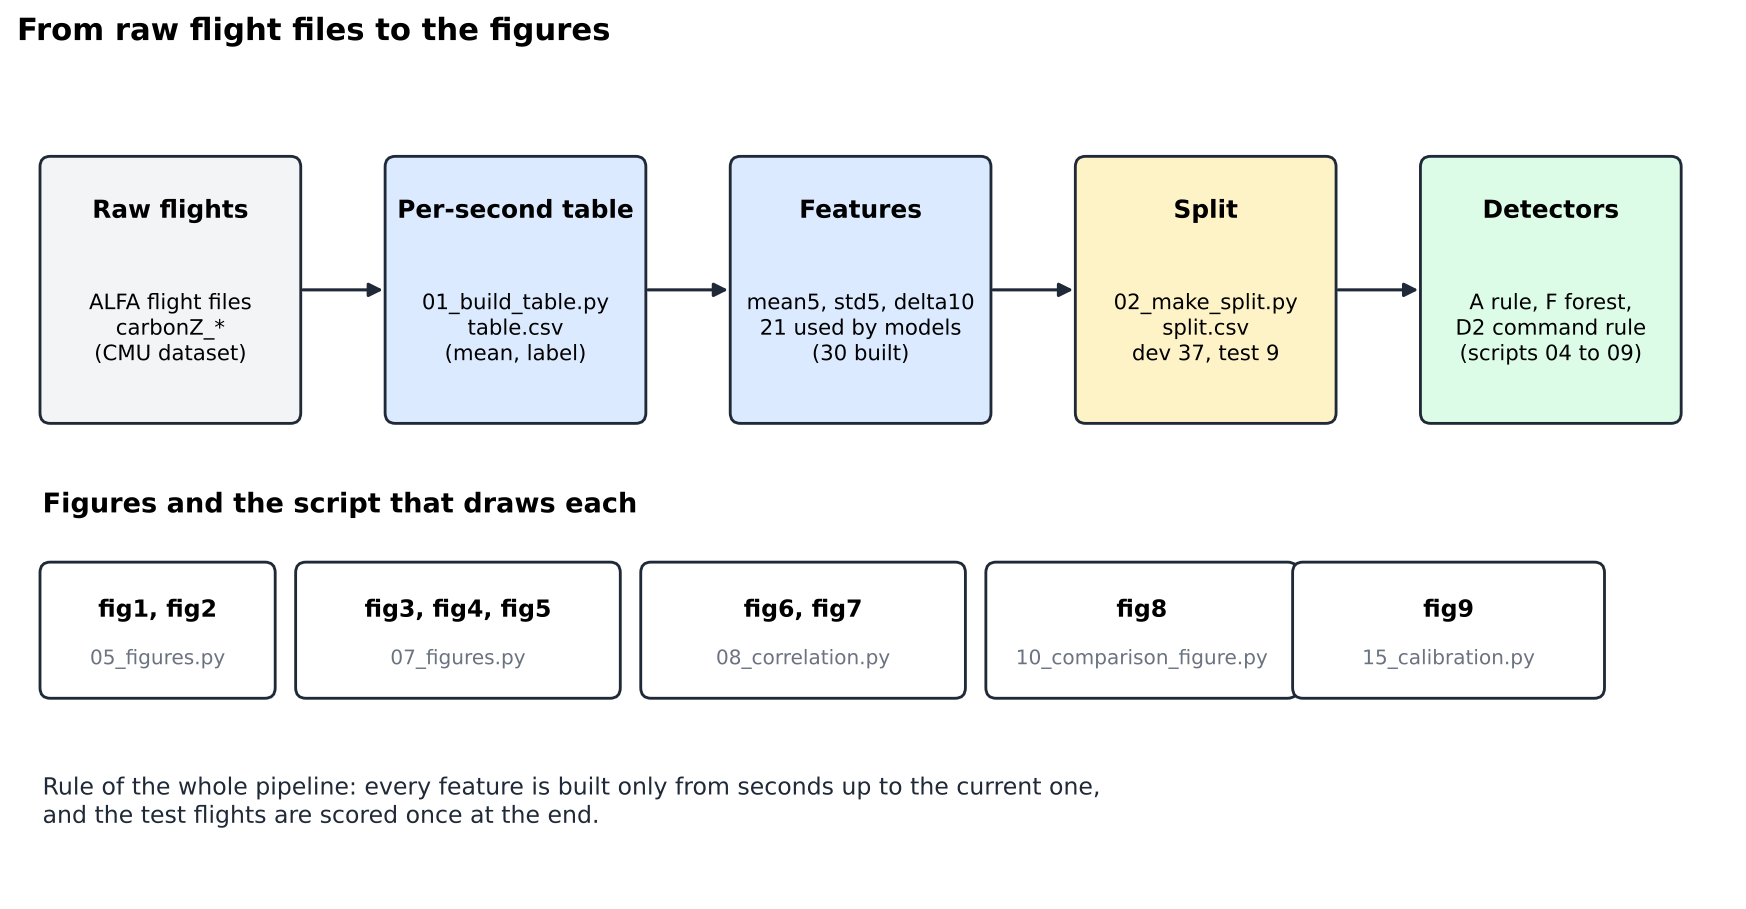
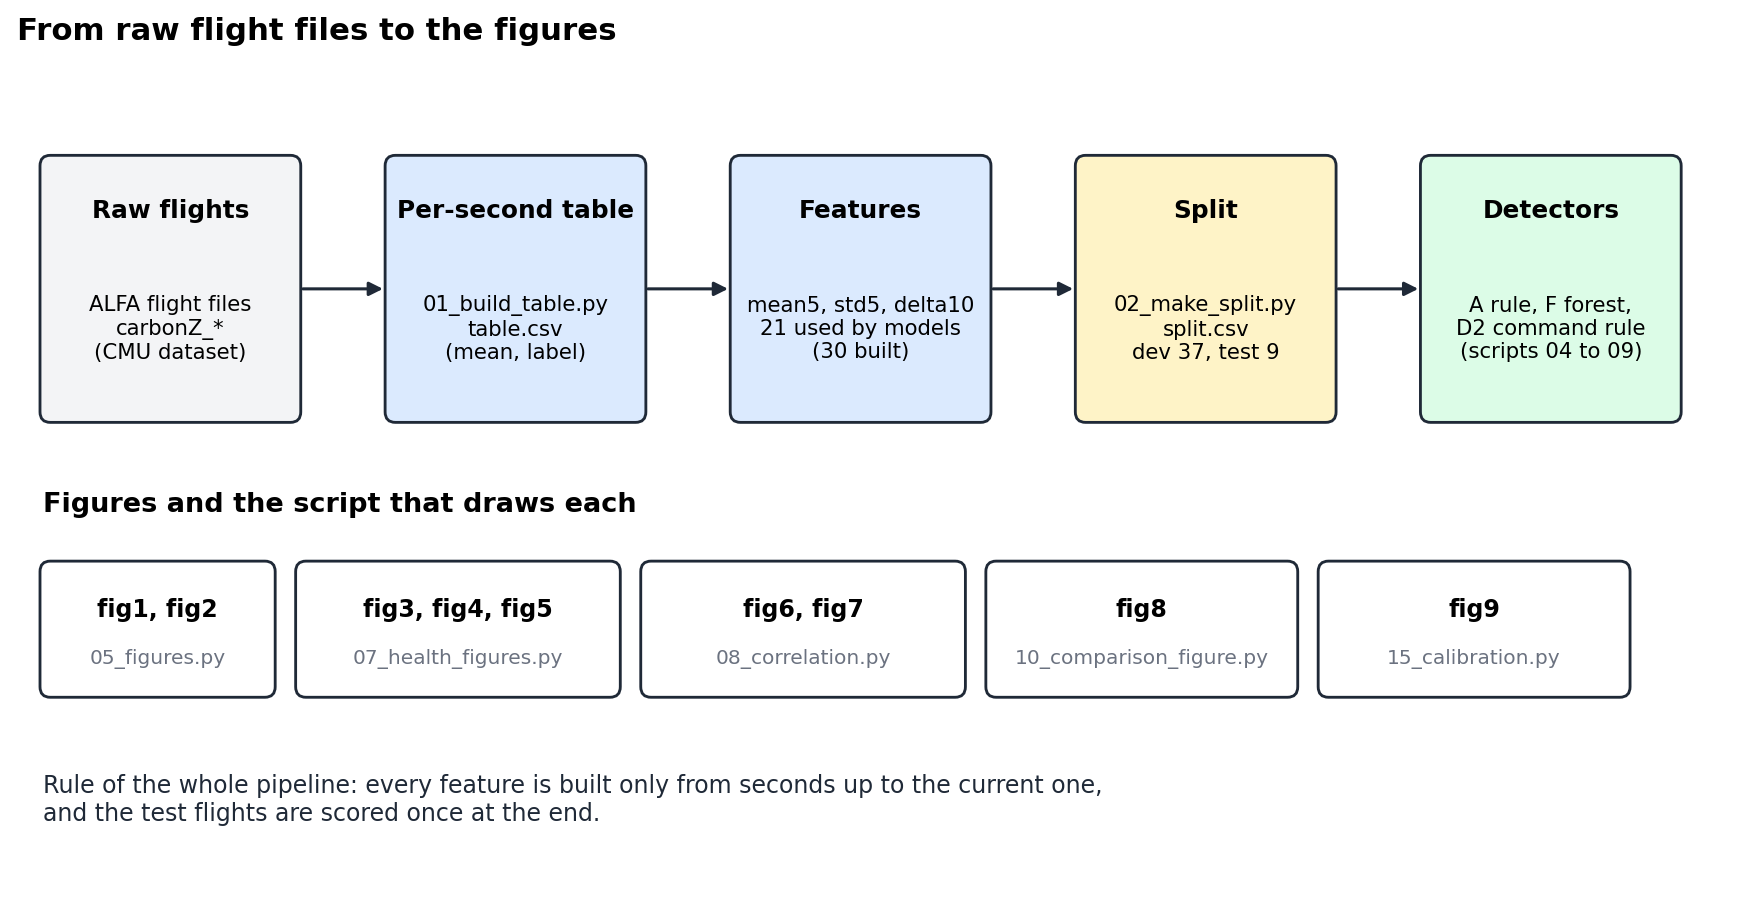
Add detector flow diagram; fix script name and spacing in diagram 2

diff --git a/src/make_diagrams.py b/src/make_diagrams.py
@@ -1,7 +1,7 @@
 """Draws the explanation diagrams (no data needed, facts come from the scripts).
 
 Run:  python src/make_diagrams.py
-Writes figures/diagram1_time_window.png ... diagram4_script_map.png
+Writes figures/diagram1_time_window.png ... diagram5_detectors.png
 """
 from pathlib import Path
 
@@ -110,10 +110,10 @@ def pipeline():
     ax.text(0.2, 2.9, "Figures and the script that draws each", fontsize=11.5, fontweight="bold")
     outs = [
         (0.2, "fig1, fig2", "05_figures.py"),
-        (2.2, "fig3, fig4, fig5", "07_figures.py"),
+        (2.2, "fig3, fig4, fig5", "07_health_figures.py"),
         (4.9, "fig6, fig7", "08_correlation.py"),
         (7.6, "fig8", "10_comparison_figure.py"),
-        (10.0, "fig9", "15_calibration.py"),
+        (10.2, "fig9", "15_calibration.py"),
     ]
     widths = [1.8, 2.5, 2.5, 2.4, 2.4]
     for (x, name, src), w in zip(outs, widths):
@@ -268,9 +268,40 @@ def script_map():
     plt.close(fig)
 
 
+# ---------------------------------------------------------------- picture 5
+def detectors():
+    fig, ax = plt.subplots(figsize=(13, 6.2))
+    ax.set_xlim(0, 13.4)
+    ax.set_ylim(0, 6.4)
+    ax.axis("off")
+    cols = [
+        (0.3, "A  sensor rule", "#dbeafe", "21 sensor features",
+         "one feature, one threshold\nfitted on dev rows:\nvel_lin_z__mean5 <= -0.833", "3 seconds in a row", "test F1 0.46"),
+        (4.75, "F  sensor forest", "#dbeafe", "21 sensor features",
+         "random forest, 300 trees,\nclass-balanced\nfault if p >= 0.5", "3 seconds in a row", "test F1 0.50"),
+        (9.2, "D2  command side", "#fef3c7", "rc-out channels 1 to 5",
+         "channel 1, 3, 4 or 5 frozen 3 s\nOR channel 2 (throttle)\nbelow a level fitted on dev", "throttle part: 3 in a row", "test F1 0.87, a ceiling"),
+    ]
+    for x, title, fc, reads, rule, persist, score in cols:
+        ax.text(x + 1.95, 6.05, title, ha="center", va="center", fontsize=12, fontweight="bold")
+        box(ax, x, 4.75, 3.9, 0.8, "reads: " + reads, fc=fc, fs=9.5)
+        box(ax, x, 2.95, 3.9, 1.3, rule, fc="#ffffff", fs=9.5)
+        box(ax, x, 1.75, 3.9, 0.7, persist, fc="#ffffff", fs=9.5)
+        box(ax, x, 0.75, 3.9, 0.6, score, fc="#f3f4f6", fs=9.5, bold=True)
+        for y0, y1 in ((4.75, 4.25), (2.95, 2.45), (1.75, 1.35)):
+            arrow(ax, (x + 1.95, y0), (x + 1.95, y1))
+    ax.text(0.3, 0.3, "D2 reads the recorded servo commands, which already contain the injected fault, "
+            "so its score shows how easy the task gets, not a detector for a real aircraft.",
+            fontsize=9.5, color=INK)
+    ax.set_title("The three detectors and what each one reads", fontsize=13, fontweight="bold", loc="left")
+    fig.savefig(OUT / "diagram5_detectors.png", dpi=170, bbox_inches="tight", facecolor="white")
+    plt.close(fig)
+
+
 if __name__ == "__main__":
     time_window()
     pipeline()
     split()
     script_map()
-    print("saved 4 diagrams in", OUT)
+    detectors()
+    print("saved 5 diagrams in", OUT)

diff --git a/docs/ROADMAP.md b/docs/ROADMAP.md
@@ -16,7 +16,7 @@ No company data goes into this project.
 1. Done: pictures 1 to 4 and the fig GIFs are pushed.
 2. Done: fig7 cell as a scatter, `figures/fig7_cell_scatter.png` from `src/make_fig7_scatter.py`.
 3. Done: signals by fault type around the fault, `figures/fig_signals_by_fault_type.png` from `src/make_fault_signals.py` (uses the mean5 features, not raw readings).
-4. Picture 6: detector flow, A, F and D2 side by side with what each reads.
+4. Done: detector flow, `figures/diagram5_detectors.png` from `src/make_diagrams.py`. Diagram 2 also fixed (script name 07_health_figures.py, fig9 box no longer touches fig8).
 5. Turn every picture into a step-by-step GIF with a caption on each step (script `src/make_gifs.py`). Done: GIF 1 time window, GIF 2 pipeline, GIF 3 split (with real split tables), GIF 4 script map, GIF 5 where the numbers come from (real rows of one engine-fault flight), GIF 6 the fig7 cell 0.65, and `walkthrough_numbers.mp4` (GIF 5 and 6 joined). Data snippets for them are in `docs/gif_data/` (made by `src/export_gif_data.py`, drawn by `src/make_gifs_data.py`). To do: the other 27 fig7 cells, std5 and delta10 traces over a whole flight. To do: Then possibly one short video that joins them, linked from the README.
 6. Fix the pipeline-map widget (fig8 reads `model_comparison.csv`, and the right panel shows engine-fault recall) and animation steps 5 and 6 (pooling happens after per-flight demeaning).
 

diff --git a/docs/code_index.md b/docs/code_index.md
@@ -89,7 +89,7 @@ These are not part of the main run order.
 | `src/export_fig_data.py` | `results/oof_predictions.csv`, `results/model_comparison.csv`, `table.csv`, `table2.csv`, `split.csv` | small CSV snippets in `results/gif_data/` |
 | `src/make_fig7_scatter.py` | `table.csv`, `split.csv` | `figures/fig7_cell_scatter.png` |
 | `src/make_fault_signals.py` | `table.csv`, `split.csv` | `figures/fig_signals_by_fault_type.png` |
-| `src/make_diagrams.py` | nothing | `figures/diagram1` to `diagram4` |
+| `src/make_diagrams.py` | nothing | `figures/diagram1` to `diagram5` |
 | `src/make_gifs.py` | `docs/gif_data/per_second_example.csv`, `example_info.csv` | `figures/gif1` to `gif4` |
 | `src/make_gifs_data.py` | `docs/gif_data/` snippets, `figures/fig7` | `figures/gif3`, `gif5`, `gif6`, `walkthrough_numbers.mp4` |
 | `src/make_gifs_figs.py` | `figures/fig*.png`, `docs/gif_data/fig*_*.csv` | `figures/gif_fig1` to `gif_fig6`, `gif_fig8` |

diff --git a/docs/ALFA_fault_detection_documentation.md b/docs/ALFA_fault_detection_documentation.md
@@ -104,6 +104,8 @@ Example with made-up numbers: raw alarms at seconds 50, 52, 53 and 54. Second 50
 
 #### Three detectors
 
+![The three detectors and what each one reads](../figures/diagram5_detectors.png)
+
 | Detector | What it is | Test F1 |
 |---|---|---|
 | A | One rule: vel_lin_z__mean5 <= -0.833, found by a one-split stump | 0.46 |
